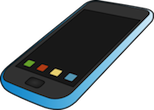
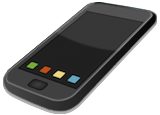
Updated images for the Learn page and updated Hour of Code page prototype.

diff --git a/quorum/libraries/static/css/style.css b/quorum/libraries/static/css/style.css
@@ -1,0 +1,167 @@
+/*Hour of Code additions*/
+
+#sidebar-navigation {
+    display: inline-block;
+    vertical-align: top;
+    box-sizing: border-box;
+    width: 20%;
+    background-color: rgba(255,255,255,.75);
+    border: solid 1px lightgrey;
+}
+
+#sidebar-navigation ul {
+    margin-left: 0px;
+}
+
+.sidebar-link {
+    display: block;
+    height: 20px;
+    vertical-align: middle;
+    padding: 10px 0 10px 20px;
+}
+
+#sidebar-navigation a {
+    outline: 0;
+    transition: none;
+}
+
+#sidebar-navigation a:hover {
+    text-decoration: none;
+    color: white;
+}
+
+#sidebar-navigation a:visited {
+    color: black;
+}
+
+#sidebar-navigation li:hover {
+    background-color: #049CDB !important;
+    color: white !important;
+}
+
+
+
+#video-container {
+    display: inline-block;
+    vertical-align: top;
+    width: 468px;
+    box-sizing: border-box;
+    margin-left: 4px;
+}
+
+
+
+#hour-of-code-IDE {
+    width:40%;
+    height:351px;
+    display: inline-block;
+    vertical-align: top;
+    box-sizing: border-box;
+    border: solid 1px lightgrey;
+    background: #EEEEEE;
+    margin-left: 4px;
+    overflow: hidden;
+}
+
+#hour-of-code-IDE h2 {
+    margin: 0;
+    background: #0088cc;
+    padding: 5px 10px;
+    color: #EEEEEE;
+    text-shadow: 1px 1px 1px darken(#0088cc, 30%);
+}
+
+span.hour-of-code-IDE-subtitle {
+    vertical-align: middle;
+    font-size: 14px;
+    font-weight: 300;
+    color: #FFFFFF;
+    display: inline-block;
+    line-height: 20px;
+    margin: 0;
+    padding-bottom: 6px;
+    position: relative;
+    top: 2px;
+    text-shadow: 0 0 0;
+}
+
+#hour-of-code-IDE-input {
+    display: block;
+    width: 100%;
+    min-height:210px;
+    resize:none;
+    font-family: Menlo, monospace;
+    text-align: left;
+    overflow: scroll;
+    overflow-y: scroll; 
+    overflow-x: hidden;	
+    overflow:-moz-scrollbars-vertical;
+    border-radius: 0;
+    border-right: none;
+    border-left: none;
+    border-bottom: solid 1px lightgrey;
+    margin: 0;
+    padding-bottom: 10px;
+}
+
+#hour-of-code-IDE-output {
+    display: inline-block;
+    box-sizing: border-box;
+    width: 88%;
+    vertical-align: top;
+    height: 89px;
+    text-align: left;
+    overflow: scroll;
+    overflow-x: scroll; 
+    overflow-y: scroll;	
+    -ms-overflow-x: scroll;
+    -ms-overflow-y: scroll;
+    overflow:-moz-scrollbars-horizontal;
+    overflow:-moz-scrollbars-vertical;
+    border-radius: 0;
+    border: none;
+    margin: 0;
+    padding: 4px 0px 4px 6px;
+}
+
+#run-button {
+    display: inline-block;
+    box-sizing: border-box;
+    height: 89px;
+    width: 12%;
+    vertical-align: top;
+    padding-top: 4px;
+    background-color: #F5F5F5;
+}
+
+#run-button a {
+    outline: none;
+}
+
+#related-content {
+    display: block;
+    vertical-align: top;
+    box-sizing: border-box;
+    width: 100%;
+    margin-top: 4px;
+    background-color: rgba(255,255,255,.75);
+    border: solid 1px lightgrey;
+    margin-bottom: 10px;
+}
+
+#related-content h1 {
+    margin: 0;
+    box-sizing: border-box;
+    color: #333;
+    width: 100%;
+    padding: 4px;
+    text-align: center;
+    border-bottom: solid 1px lightgrey;
+}
+
+.related-content-list-item {
+    display: block;
+    height: 20px;
+    vertical-align: middle;
+    padding: 10px 0 10px 20px;
+}

diff --git a/quorum/libraries/static/js/global.js b/quorum/libraries/static/js/global.js
@@ -460,6 +460,33 @@ var submitCodeSample = function(){
 			}
 		});
 	})
+        
+        $("#run-button a").on("click", function(e) {
+		e.preventDefault();
+		$(".outputArea").text("");
+		
+		var codeData = {code: $(".inputArea").val()};
+		console.log(codeData);
+		$.ajax({
+			type: "POST",
+			url: "controllers/IDE.controller.php",
+			data: codeData,
+			success: function(result){
+				var start = 0;
+				result.indexOf("|") > 0  ? start = result.indexOf("|")+1 : start = 0;
+				var output = result.substring(start, result.length-1);
+				console.log(output);
+				//$(".outputArea").text(output);
+                                //document.getElementById("myDiv").innerHTML='<script type="text/javascript" id="runscript">alert("This alert was produced from the AJAX call");<\/script>';
+                                var value = eval(output);
+                                $(".outputArea").text(value);
+			},
+			error: function (xhr, ajaxOptions, thrownError) {
+				console.log(xhr, ajaxOptions, thrownError);
+                                $(".outputArea").text("Suck it");
+			}
+		});
+	})
 }
 
 

diff --git a/quorum/libraries/static/css/cache.css b/quorum/libraries/static/css/cache.css
@@ -1130,43 +1130,3 @@ div#library-info table.library-info td.label-row {
 .badges-list .quorum-badge:hover span.title {
   display: block;
 }
-
-/*Hour of Code additions*/
-
-/*#sidebar-navigation {
-    display: inline-block;
-    box-sizing: border-box;
-    width: 20%;
-    background-color: rgba(255,255,255,.75);
-    border: solid 1px lightgrey;
-}
-
-#sidebar-navigation ul {
-    margin-left: 0px;
-}
-
-.sidebar-link {
-    display: block;
-    height: 20px;
-    vertical-align: middle;
-    padding: 10px 0 10px 20px;
-}
-
-#sidebar-navigation a {
-    outline: 0;
-    transition: none;
-}
-
-#sidebar-navigation a:hover {
-    text-decoration: none;
-    color: white;
-}
-
-#sidebar-navigation a:visited {
-    color: black;
-}
-
-#sidebar-navigation li:hover {
-    background-color: #049CDB;
-    color: white;
-}*/

diff --git a/quorum/libraries/documents/hourofcode/part1.php b/quorum/libraries/documents/hourofcode/part1.php
@@ -1,35 +1,57 @@
-<?php include("../../static/templates/pageheader.template.php"); ?> 
+<?php include("../../static/templates/pageheader.template.php"); ?>
 
 <div class="hero-unit">
 	<div class="hero-unit-container">
-		<h1>Hour of Code : Part 1</h1>
+		<h1>Hour of Code: Part 1</h1>
+                <p>Output Statements</p>
 	</div>
 </div>
-    <?php include("../../static/templates/contentwrapperheader.template.php"); ?>
+  <?php include("../../static/templates/contentwrapperheader.template.php"); ?>
 
-<div id ="sidebar-navigation">
+<div id="sidebar-navigation">
     <ul>
-        <a href="#"><li id = "sidebar-intro" class = "sidebar-link">Introduction</li></a>
-        <a href="#"><li id = "sidebar-part1" class = "sidebar-link">Part 1: Output Statements</li></a>
-        <a href="#"><li id = "sidebar-part2" class = "sidebar-link">Part 2: Something Cool</li></a>
-        <a href="#"><li id = "sidebar-part3" class = "sidebar-link">Part 3: Something Rad</li></a>
-        <a href="#"><li id = "sidebar-part4" class = "sidebar-link">Part 4: Something Awesome</li></a>
-        <a href="#"><li id = "sidebar-part5" class = "sidebar-link">Part 5: Something Something</li></a>
+        <a href="#"><li id="sidebar-introduction" class="sidebar-link">Introduction</li></a>
+        <a href="part1.php"><li id="sidebar-part1" class="sidebar-link">Part 1: Output Statements</li></a>
+        <a href="#"><li id="sidebar-part2" class="sidebar-link">Part 2: Something Cool</li></a>
+        <a href="#"><li id="sidebar-part3" class="sidebar-link">Part 3: Something Rad</li></a>
+        <a href="#"><li id="sidebar-part4" class="sidebar-link">Part 4: Something Awesome</li></a>
+        <a href="#"><li id="sidebar-part5" class="sidebar-link">Part 5: Something Something</li></a>
     </ul>    
+</div><div id="video-container">
+    <iframe width="468" height="351" src="//www.youtube.com/embed/dqaDSlYdRcs?rel=0" frameborder="0" allowfullscreen></iframe>
+</div><div id="hour-of-code-IDE">
+    <h2>Try It! <span class="hour-of-code-IDE-subtitle">Enter Quorum code below and press "Run" to execute it</span></h2>
+    <div id="hour-of-code-IDE-controller">
+    </div>
+        <textarea id="hour-of-code-IDE-input" class="ide inputArea">output "Hello, Science!"</textarea>
+        
+        <pre id="hour-of-code-IDE-output" class="outputArea"></pre><div id="run-button" class="btn-group">
+                <a class="btn btn-success" href="#">Run</a>
+        </div></div><div id="related-content">
+    <h1>Related Content</h1>
+    <ul>
+        <a href="#"><li class="related-content-list-item">Placeholder Links</li></a>
+        <a href="#"><li class="related-content-list-item">Lorem Ipsum</li></a>
+        <a href="#"><li class="related-content-list-item">Related Content or something</li></a>
+        <a href="#"><li class="related-content-list-item">Long striiiiiiiiiiiiiiiiiiiiiiiiiiiiiiiiiiiiiiiiiiiiiiiiing</li></a>
+        <a href="#"><li class="related-content-list-item">This may lead to somewhere useful if you wish to learn more on the current subject</li></a>
+        <a href="#"><li class="related-content-list-item">This link is very special</li></a>
+        <a href="#"><li class="related-content-list-item">Suck it</li></a>
+    </ul>
 </div>
 
-<!--<script type="text/javascript">
+<?php include("../../static/templates/pagefooter.template.php"); ?>
+
+<script type="text/javascript">
     document.title = 'Hour of Code Part 1 | Quorum Programming Language';
     
     var url = window.location.pathname.substring(window.location.pathname.indexOf("hourofcode/") + "hourofcode/".length, window.location.pathname.indexOf(".php"));
 
-
-var arr = ["intro", "part1", "part2", "part3", "part4", "part5"];
+var arr = ["introduction", "part1", "part2", "part3", "part4", "part5"];
 
 for(var i = 0; i < arr.length; i++)
 {
         if(url == arr[i])
-                $("#sidebar-".concat(arr[i]) ).css([{"background-color":"rgb(235,235,235);", "color":"#049CDB"}]);
+                $("#sidebar-".concat(arr[i])).css({"background-color":"rgb(235,235,235)", "color":"#049CDB"});
 }
-    
-</script>-->
+</script>

diff --git a/quorum/libraries/static/css/style.php b/quorum/libraries/static/css/style.php
@@ -12,7 +12,8 @@ $files = array(
     'libraries.less',
     'librarysubmissions.less',
     'index.less',
-    'controlpanel.less'
+    'controlpanel.less',
+    'style.css'
 );
 
 $time = mktime(0,0,0,21,5,1980);

diff --git a/quorum/libraries/documents/curriculum/chapter2/lab2_2.php b/quorum/libraries/documents/curriculum/chapter2/lab2_2.php
@@ -10,6 +10,7 @@
 	</div>
 </div>
 
+    <?php include("../../../static/templates/contentwrapperheader.template.php"); ?>
 <!--<h1>Lab 2.2: Math, Output and User Input</h1>-->
 <h2>Objectives</h2>
 <p>

diff --git a/quorum/libraries/documents/curriculum/chapter2/lab2_3.php b/quorum/libraries/documents/curriculum/chapter2/lab2_3.php
@@ -10,6 +10,7 @@
 	</div>
 </div>
 
+    <?php include("../../../static/templates/contentwrapperheader.template.php"); ?>
 <!--<h1><b>Lab 2.3: Music</b></h1>-->
 <h2>Objectives</h2>
 <p>
